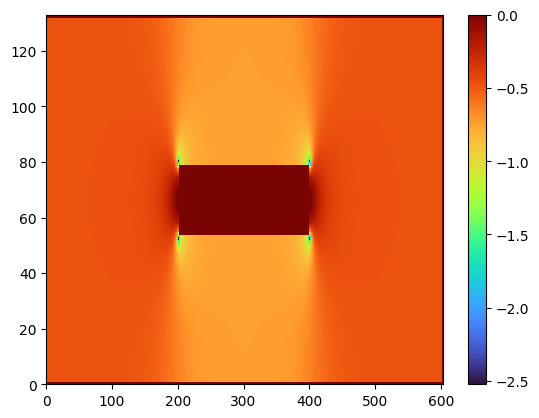
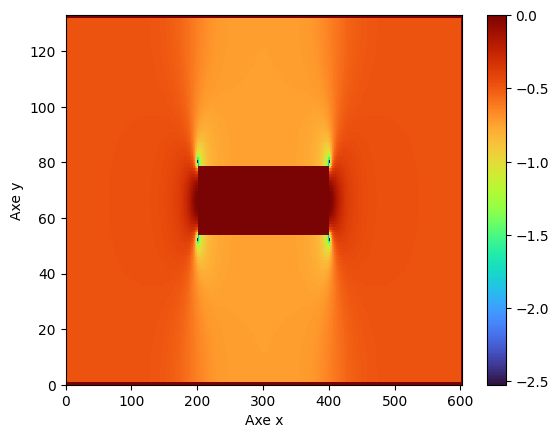
switchingfromflutofluide

Changed region(s): [[0.0, 0.0311, 0.9796, 0.9952], [0.2968, 0.1244, 0.6234, 0.8086]]

diff --git a/genfig.py b/genfig.py
@@ -1,7 +1,7 @@
 import numpy as np
 from matplotlib import pyplot as plt
 import  utils
-import flotte as plouf
+import fluides as plouf
 
 
 def figstream(dom, cl, num, number, show=False):
@@ -27,6 +27,8 @@ def figpressure(dom, cl, num, number, show=False):
     u, v = plouf.velocity(dom, psi, 2)
     plt.pcolor(plouf.pressure(u.T, v.T), cmap='turbo')
     plt.colorbar()
+    plt.xlabel('Axe x')
+    plt.ylabel('Axe y')
     plt.savefig("pictures/pressure" + str(number) + ".png", bbox_inches='tight')
     if show:
         plt.show(block=False)
